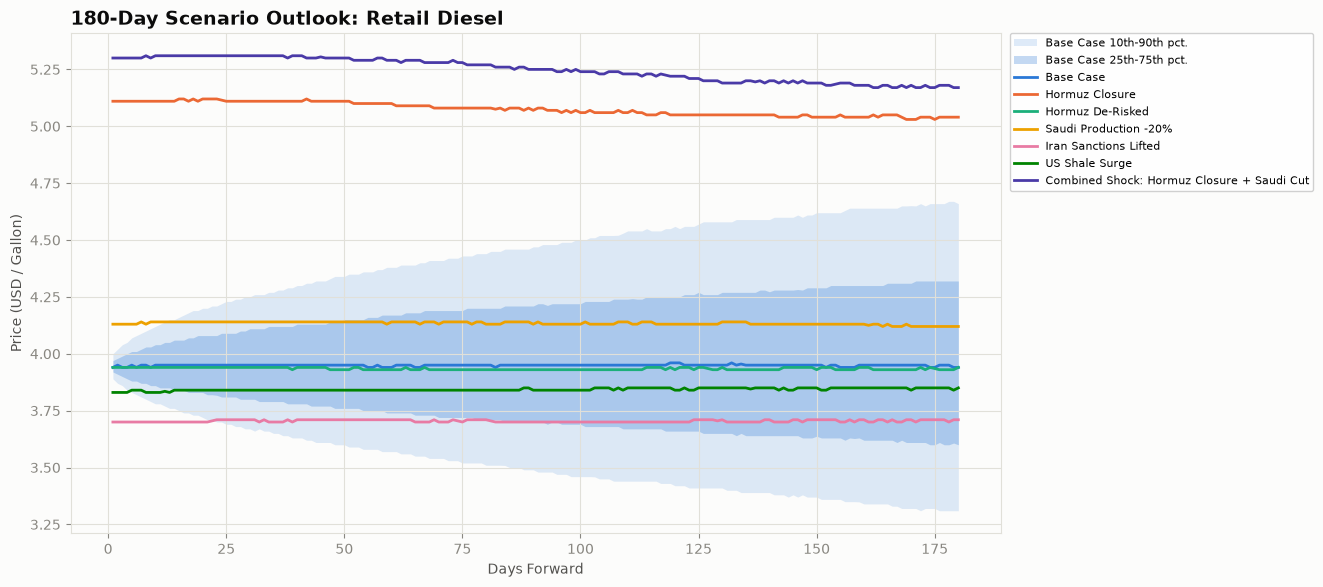
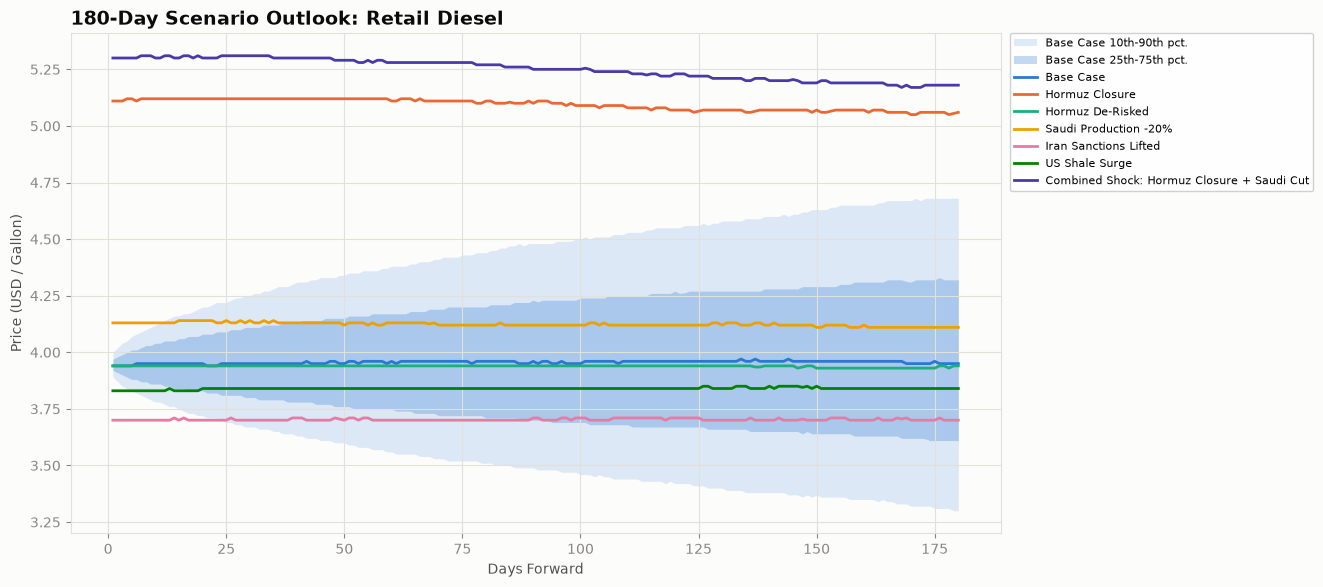
Link report to live AAA gas prices, flag stale calibration inputs
Adds a link to AAA's national average retail price so the report can
be sanity-checked against today's actual pump price, plus a
Methodology line reporting the calibration date so a stale or
placeholder params_macro.json (like the test data currently in this
repo, which predates calibrate.py's date_calibrated field) is obvious
rather than silently producing an implausible baseline. Also fixes
the report write to use UTF-8 so the new em dash doesn't get mangled
on Windows' default cp1252 encoding, and makes the path-count caption
track the new configurable "sims" value instead of a hardcoded 10,000.

diff --git a/scenario_report.py b/scenario_report.py
@@ -42,6 +42,12 @@ MUTED_INK = "#898781"
 SURFACE = "#fcfcfb"
 GRID = "#e1e0d9"
 
+# Mirrors simulate.go's DefaultSims fallback, used only for the report's
+# path-count caption when "sims" is absent from params_macro.json.
+DEFAULT_SIMS = 2000
+
+AAA_GAS_PRICES_URL = "https://gasprices.aaa.com/"
+
 
 def load_base_params():
     if not os.path.exists(PARAMS_FILE):
@@ -287,7 +293,9 @@ def build_summary_rows(scenarios, gas_bands_by_id, diesel_bands_by_id):
     return rows
 
 
-def render_report(scenarios, summary_rows, as_of):
+def render_report(scenarios, summary_rows, as_of, base):
+    sims = base.get("sims") or DEFAULT_SIMS
+    calibrated_date = base.get("date_calibrated") or "unknown"
     base_row = next(r for r in summary_rows if r["id"] == "base")
     non_base = [r for r in summary_rows if r["id"] != "base"]
     most_bullish = max(non_base, key=lambda r: r["gas_day180_p50"])
@@ -298,7 +306,15 @@ def render_report(scenarios, summary_rows, as_of):
 
     lines = []
     lines.append(f"# Oil & Fuels Market Outlook - Scenario Analysis")
-    lines.append(f"*As of {as_of} | 10,000-path Monte Carlo, 180-day horizon*\n")
+    lines.append(f"*As of {as_of} | {sims:,}-path Monte Carlo, 180-day horizon*\n")
+    lines.append(
+        f"**Compare against today's actual retail price:** "
+        f"[AAA National Average Gas Prices]({AAA_GAS_PRICES_URL}). This model "
+        f"projects a *medium-term path* for the crude-to-pump price chain, not "
+        f"today's station price, so some gap is expected — but if the gap looks "
+        f"large, check the \"Calibration inputs\" line under Methodology first: "
+        f"the model is only as current as the last `calibrate.py` run.\n"
+    )
 
     lines.append("## Executive Summary\n")
     lines.append(
@@ -350,7 +366,7 @@ def render_report(scenarios, summary_rows, as_of):
 
     lines.append("## Methodology\n")
     lines.append(
-        "Each scenario re-runs the full 10,000-path stochastic simulation "
+        f"Each scenario re-runs the full {sims:,}-path stochastic simulation "
         "(`simulate.go`) with a modified set of inputs. Chokepoint scenarios "
         "(Hormuz closure/de-risking) adjust the model's existing disruption "
         "frequency and shipping-risk mechanics directly. Production scenarios "
@@ -362,8 +378,16 @@ def render_report(scenarios, summary_rows, as_of):
         "carry wider, not just higher or lower, confidence bands. This is a "
         "model output for illustrative what-if analysis, not investment advice.\n"
     )
+    lines.append(
+        f"**Calibration inputs:** last calibrated on **{calibrated_date}** by "
+        "`calibrate.py` from live NYMEX crude/gasoline/diesel futures "
+        "(`yfinance`). If that date is stale, or reads \"unknown\" (no "
+        "`date_calibrated` field), the base case below reflects old or "
+        "placeholder inputs rather than today's market — re-run "
+        "`python calibrate.py` before trusting the baseline.\n"
+    )
 
-    with open("oil_market_outlook.md", "w") as f:
+    with open("oil_market_outlook.md", "w", encoding="utf-8") as f:
         f.write("\n".join(lines))
     print("Saved oil_market_outlook.md")
 
@@ -406,7 +430,7 @@ def main():
     plot_scenario_paths(scenarios, diesel_bands_by_id, "Diesel", "scenario_diesel_paths.png")
     summary_rows = build_summary_rows(scenarios, gas_bands_by_id, diesel_bands_by_id)
     plot_day180_ranking(scenarios, summary_rows, "scenario_day180_ranking.png")
-    render_report(scenarios, summary_rows, as_of)
+    render_report(scenarios, summary_rows, as_of, base)
 
 
 if __name__ == "__main__":

diff --git a/oil_market_outlook.md b/oil_market_outlook.md
@@ -1,33 +1,35 @@
 # Oil & Fuels Market Outlook - Scenario Analysis
-*As of 2026-09-25 | 10,000-path Monte Carlo, 180-day horizon*
+*As of 2026-09-25 | 2,000-path Monte Carlo, 180-day horizon*
+
+**Compare against today's actual retail price:** [AAA National Average Gas Prices](https://gasprices.aaa.com/). This model projects a *medium-term path* for the crude-to-pump price chain, not today's station price, so some gap is expected — but if the gap looks large, check the "Calibration inputs" line under Methodology first: the model is only as current as the last `calibrate.py` run.
 
 ## Executive Summary
 
-Under current calibrated conditions, the model's base-case median retail gasoline price reaches **$3.50/gal** 180 days out (10th-90th percentile range $2.80-$4.27). Across the six stress scenarios modeled below, the most bullish case is **Combined Shock: Hormuz Closure + Saudi Cut**, which pushes the day-180 median to $4.71/gal (+34.8% vs. base), while **Iran Sanctions Lifted** offers the most relief, at $3.26/gal (-6.7% vs. base).
+Under current calibrated conditions, the model's base-case median retail gasoline price reaches **$3.50/gal** 180 days out (10th-90th percentile range $2.80-$4.28). Across the six stress scenarios modeled below, the most bullish case is **Combined Shock: Hormuz Closure + Saudi Cut**, which pushes the day-180 median to $4.74/gal (+35.4% vs. base), while **Iran Sanctions Lifted** offers the most relief, at $3.26/gal (-6.9% vs. base).
 
 ## Scenario Summary Table (Gasoline)
 
 | Scenario | Day 30 | Day 90 | Day 180 | Day 180 10th-90th pct. | vs. Base |
 |---|---|---|---|---|---|
-| Base Case | $3.55 | $3.54 | $3.50 | $2.80-$4.27 | - |
-| Hormuz Closure | $4.71 | $4.66 | $4.58 | $3.54-$6.12 | +31.0% |
-| Hormuz De-Risked | $3.54 | $3.51 | $3.49 | $2.83-$4.17 | -0.1% |
-| Saudi Production -20% | $3.74 | $3.72 | $3.66 | $2.91-$4.50 | +4.7% |
-| Iran Sanctions Lifted | $3.31 | $3.29 | $3.26 | $2.58-$4.02 | -6.7% |
-| US Shale Surge | $3.44 | $3.42 | $3.40 | $2.71-$4.17 | -2.7% |
-| Combined Shock: Hormuz Closure + Saudi Cut | $4.91 | $4.84 | $4.71 | $3.59-$6.34 | +34.8% |
+| Base Case | $3.55 | $3.54 | $3.50 | $2.80-$4.28 | - |
+| Hormuz Closure | $4.72 | $4.69 | $4.62 | $3.54-$6.17 | +32.0% |
+| Hormuz De-Risked | $3.55 | $3.53 | $3.50 | $2.84-$4.20 | +0.0% |
+| Saudi Production -20% | $3.74 | $3.71 | $3.67 | $2.93-$4.51 | +4.9% |
+| Iran Sanctions Lifted | $3.31 | $3.30 | $3.26 | $2.61-$4.02 | -6.9% |
+| US Shale Surge | $3.44 | $3.43 | $3.40 | $2.71-$4.15 | -2.9% |
+| Combined Shock: Hormuz Closure + Saudi Cut | $4.91 | $4.86 | $4.74 | $3.60-$6.32 | +35.4% |
 
 ## Scenario Summary Table (Diesel, Day 180 median)
 
 | Scenario | Day 180 Diesel |
 |---|---|
-| Base Case | $3.94 |
-| Hormuz Closure | $5.04 |
+| Base Case | $3.95 |
+| Hormuz Closure | $5.06 |
 | Hormuz De-Risked | $3.94 |
-| Saudi Production -20% | $4.12 |
-| Iran Sanctions Lifted | $3.71 |
-| US Shale Surge | $3.85 |
-| Combined Shock: Hormuz Closure + Saudi Cut | $5.17 |
+| Saudi Production -20% | $4.11 |
+| Iran Sanctions Lifted | $3.70 |
+| US Shale Surge | $3.84 |
+| Combined Shock: Hormuz Closure + Saudi Cut | $5.18 |
 
 ## Scenario Detail
 
@@ -35,43 +37,43 @@ Under current calibrated conditions, the model's base-case median retail gasolin
 
 Current calibrated market conditions; no policy or geopolitical shock applied.
 
-Day-180 median: **$3.50/gal** gasoline (base case), $3.94/gal diesel.
+Day-180 median: **$3.50/gal** gasoline (base case), $3.95/gal diesel.
 
 ### Hormuz Closure
 
 Strait of Hormuz effectively shut: roughly 55% of its normal throughput is assumed offline, chokepoint disruption frequency quadruples, and the war-risk shipping premium triples.
 
-Day-180 median: **$4.58/gal** gasoline (+31.0% vs. base), $5.04/gal diesel.
+Day-180 median: **$4.62/gal** gasoline (+32.0% vs. base), $5.06/gal diesel.
 
 ### Hormuz De-Risked
 
 Geopolitical tension around the strait fully unwinds: disruption frequency falls to a fifth of baseline and the war-risk premium halves, with no direct change to physical supply.
 
-Day-180 median: **$3.49/gal** gasoline (-0.1% vs. base), $3.94/gal diesel.
+Day-180 median: **$3.50/gal** gasoline (+0.0% vs. base), $3.94/gal diesel.
 
 ### Saudi Production -20%
 
 Saudi Arabia cuts output and spare capacity by 20%, e.g. an OPEC+ supply-discipline shock.
 
-Day-180 median: **$3.66/gal** gasoline (+4.7% vs. base), $4.12/gal diesel.
+Day-180 median: **$3.67/gal** gasoline (+4.9% vs. base), $4.11/gal diesel.
 
 ### Iran Sanctions Lifted
 
 Sanctions are lifted, letting Iranian output ramp toward a materially higher production ceiling.
 
-Day-180 median: **$3.26/gal** gasoline (-6.7% vs. base), $3.71/gal diesel.
+Day-180 median: **$3.26/gal** gasoline (-6.9% vs. base), $3.70/gal diesel.
 
 ### US Shale Surge
 
 US shale operators ramp drilling activity, lifting both current output and spare capacity.
 
-Day-180 median: **$3.40/gal** gasoline (-2.7% vs. base), $3.85/gal diesel.
+Day-180 median: **$3.40/gal** gasoline (-2.9% vs. base), $3.84/gal diesel.
 
 ### Combined Shock: Hormuz Closure + Saudi Cut
 
 A simultaneous Hormuz closure and 20% Saudi production cut - a tail-risk stack of the two largest supply-side scenarios.
 
-Day-180 median: **$4.71/gal** gasoline (+34.8% vs. base), $5.17/gal diesel.
+Day-180 median: **$4.74/gal** gasoline (+35.4% vs. base), $5.18/gal diesel.
 
 ## Charts
 
@@ -83,4 +85,6 @@ Day-180 median: **$4.71/gal** gasoline (+34.8% vs. base), $5.17/gal diesel.
 
 ## Methodology
 
-Each scenario re-runs the full 10,000-path stochastic simulation (`simulate.go`) with a modified set of inputs. Chokepoint scenarios (Hormuz closure/de-risking) adjust the model's existing disruption frequency and shipping-risk mechanics directly. Production scenarios additionally apply a first-order crude price shock: each 1% of global supply added or removed is assumed to move crude price 6% in the opposite direction (a simplifying short-run elasticity assumption, not a fitted econometric estimate), with volatility scaled up in proportion to shock size so tail scenarios carry wider, not just higher or lower, confidence bands. This is a model output for illustrative what-if analysis, not investment advice.
+Each scenario re-runs the full 2,000-path stochastic simulation (`simulate.go`) with a modified set of inputs. Chokepoint scenarios (Hormuz closure/de-risking) adjust the model's existing disruption frequency and shipping-risk mechanics directly. Production scenarios additionally apply a first-order crude price shock: each 1% of global supply added or removed is assumed to move crude price 6% in the opposite direction (a simplifying short-run elasticity assumption, not a fitted econometric estimate), with volatility scaled up in proportion to shock size so tail scenarios carry wider, not just higher or lower, confidence bands. This is a model output for illustrative what-if analysis, not investment advice.
+
+**Calibration inputs:** last calibrated on **unknown** by `calibrate.py` from live NYMEX crude/gasoline/diesel futures (`yfinance`). If that date is stale, or reads "unknown" (no `date_calibrated` field), the base case below reflects old or placeholder inputs rather than today's market — re-run `python calibrate.py` before trusting the baseline.
